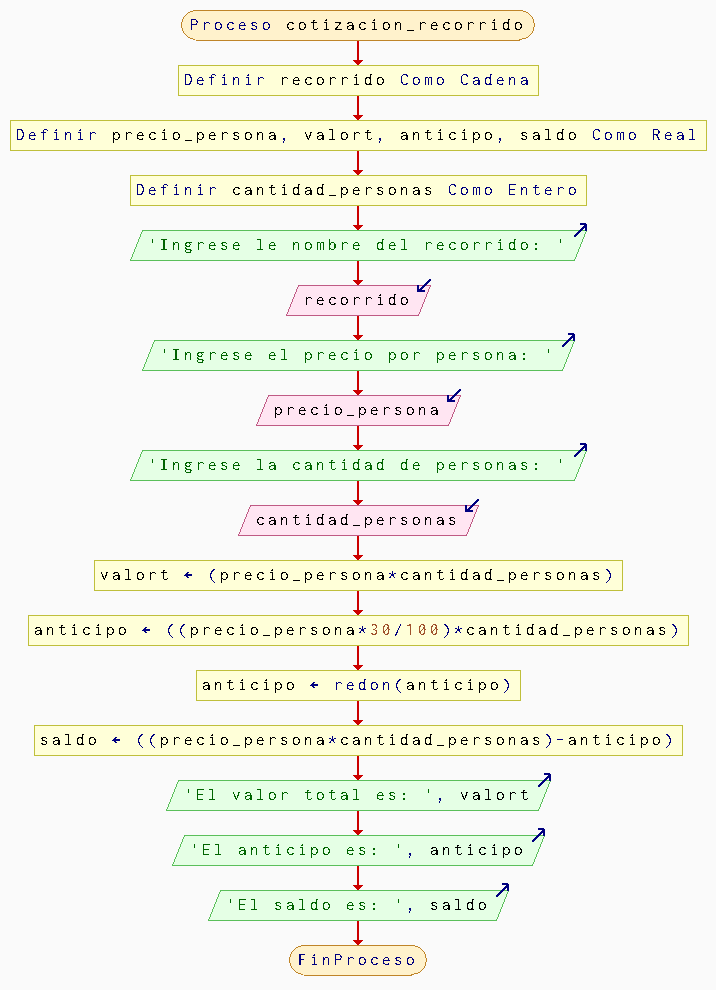
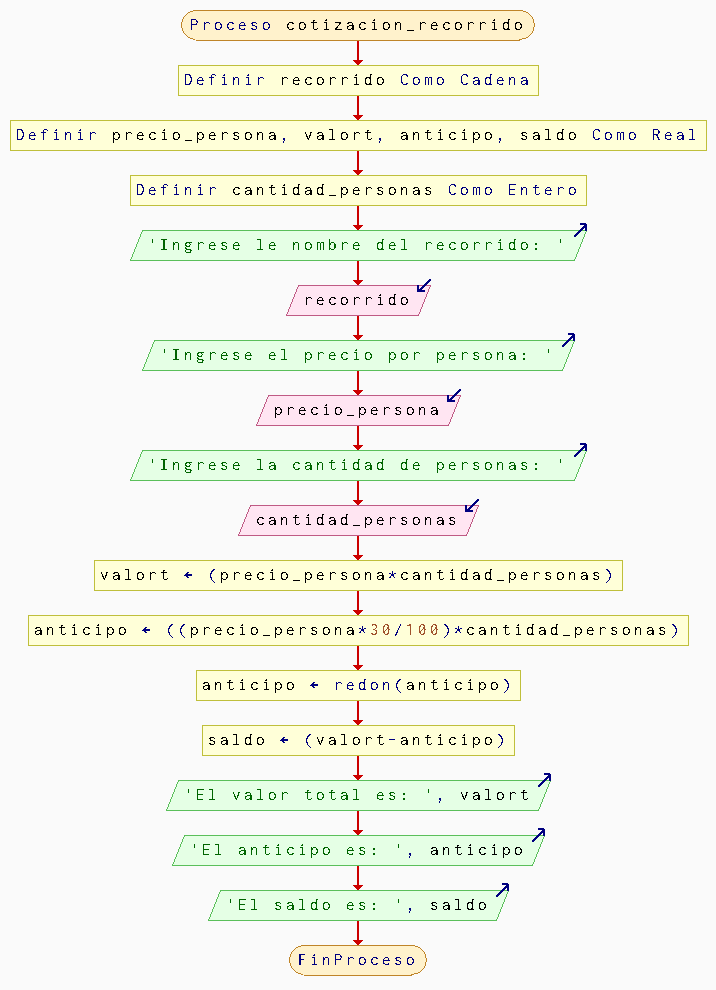
minireto3

Changed region(s): [[0.7067, 0.7273, 0.9525, 0.7879], [0.0307, 0.7273, 0.3073, 0.7879]]

diff --git a/bitacora.md b/bitacora.md
@@ -121,7 +121,7 @@ leer precio_persona = 45000
 leer cantidad_personas = 4
 valort <- (precio_persona * cantidad_personas) =   180000
 anticipo <- ((precio_persona * 30/100) * cantidad_personas) = 54000
-saldo <- ((precio_persona * cantidad_personas) - anticipo) =  126000
+saldo <- (valort - anticipo) =  126000
 
 Al ejecutar el algoritmo, pude comprobar que los resultados que me da el programa coinciden con la prueba de escritorio que realice.
 
